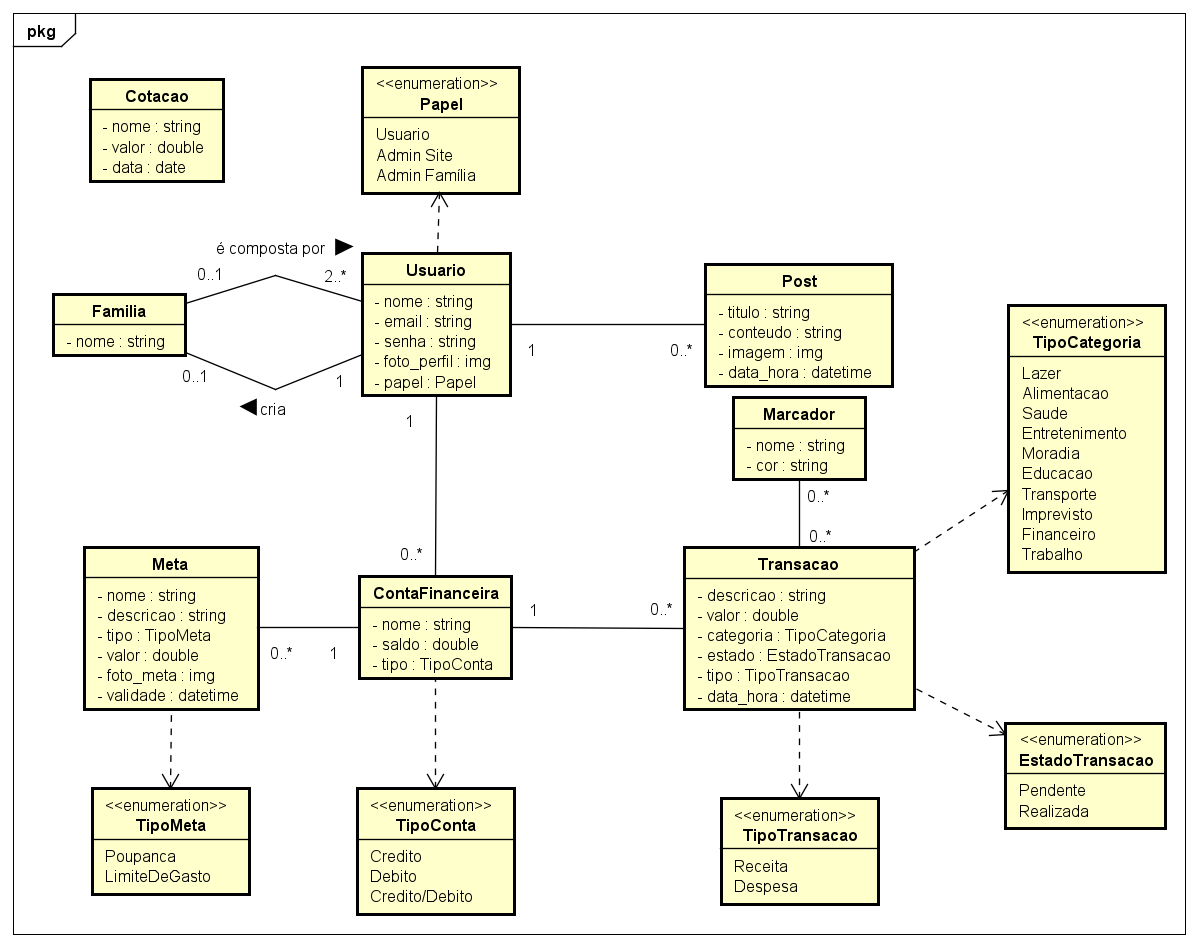
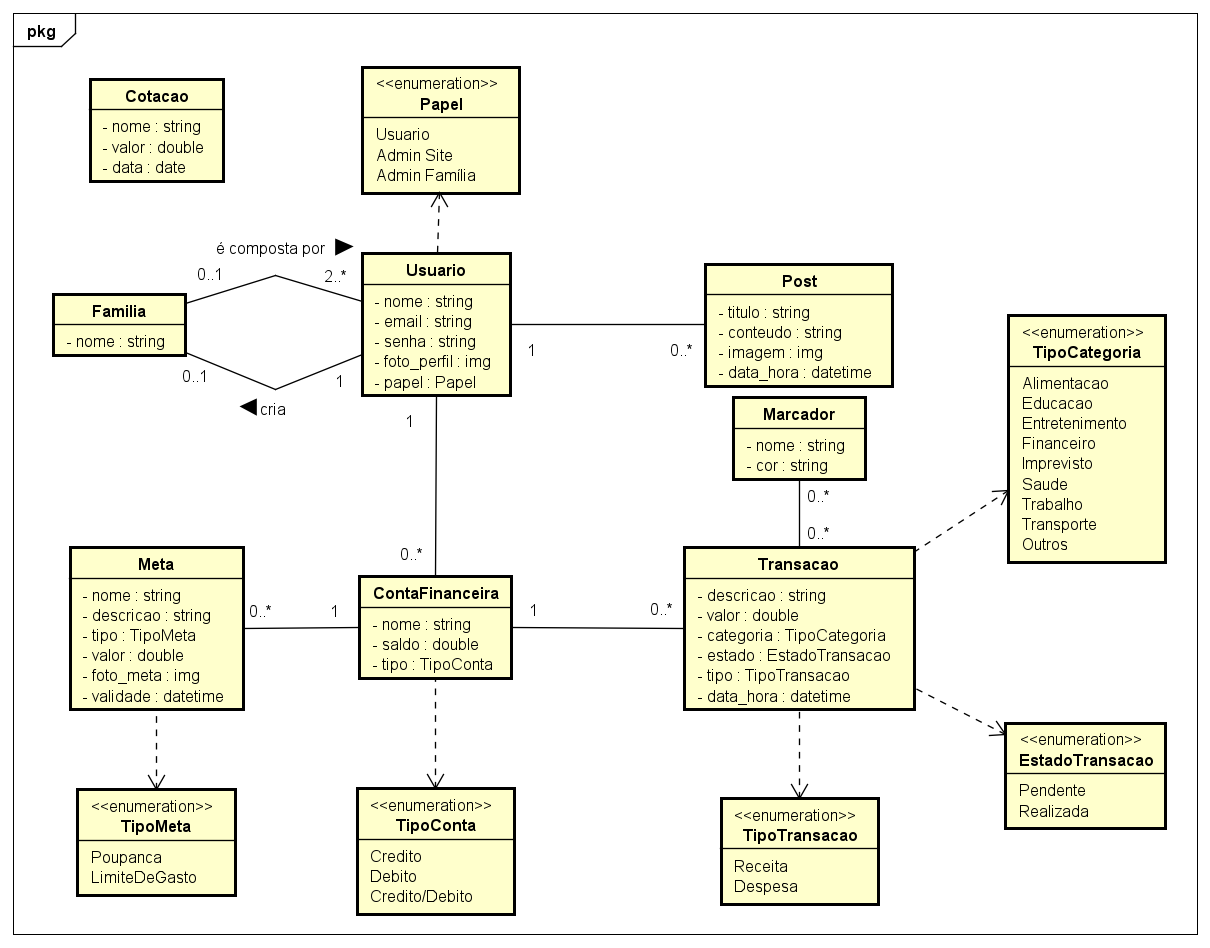
Outra atualização da nova versão do domínio

diff --git a/doc/dominio/dominio.md b/doc/dominio/dominio.md
@@ -9,8 +9,8 @@
 | 14/11/2025 | 3.0 | Ajustes pós 4º Iteração |  Bruno Dias, Eduardo Medeiros, Lucas Henrique, Pedro Ricardo, Wagner Souza |
 | 19/11/2025 | 4.0 | Ajustes pós reunião |  Bruno Dias, Eduardo Medeiros, Lucas Henrique, Pedro Ricardo, Wagner Souza |
 | 20/11/2025 | 4.1 | Ajustes pós reunião |  Bruno Dias, Eduardo Medeiros, Lucas Henrique, Pedro Ricardo, Wagner Souza |
+| 20/11/2025 | 4.2 | Ajustes pós reunião |  Bruno Dias, Eduardo Medeiros, Lucas Henrique, Pedro Ricardo, Wagner Souza |
 
 ## 1. Diagrama das Classes Conceituais do Domínio
 
 ![Diagrama Modelo de Domínio](../dominio/img/Diagrama%20de%20Domínio%20NPL.png)
-